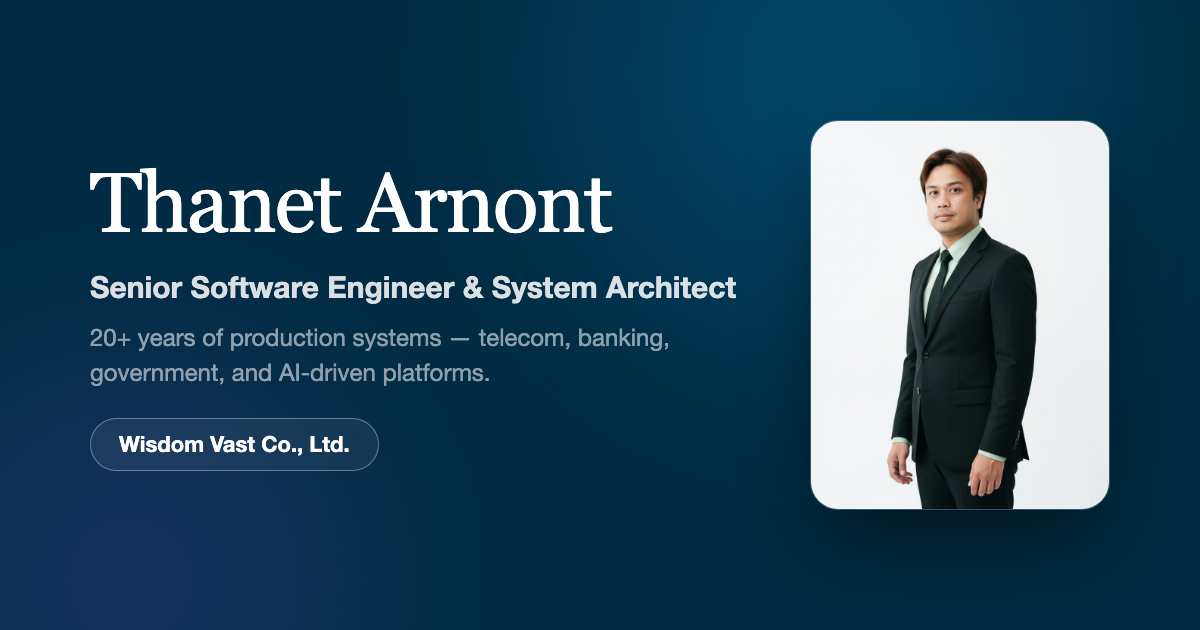
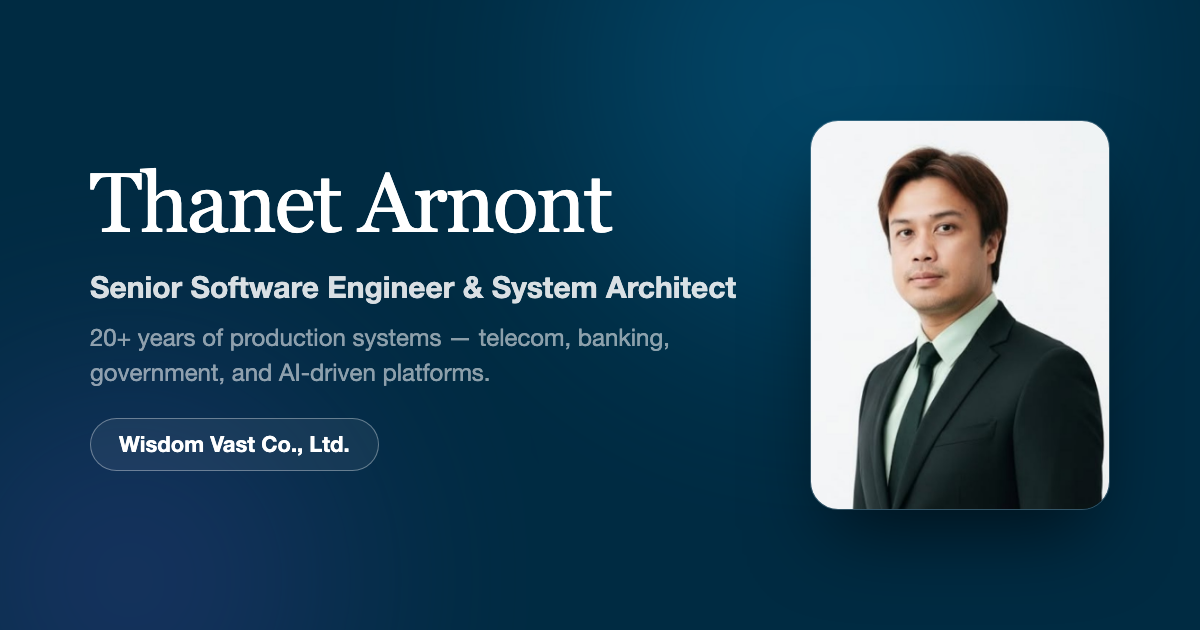
feat: machine-readable resume endpoints, chest-up portrait, drop footer
- resume.json (JSON Resume schema) + llms.txt for AI agents/bots
- Replace PDF download buttons with Resume API link + terminal-style
  endpoint card in Contact
- Crop portrait to chest-up, regenerate og.png with new crop
- Remove footer (copyright + tech credits)

Changed region(s): [[0.7092, 0.2111, 0.925, 0.8143]]

diff --git a/src/App.tsx b/src/App.tsx
@@ -89,7 +89,8 @@ function Hero() {
    About Section
    ======================================== */
 const LINKEDIN_URL = 'https://www.linkedin.com/in/thanet-arnont-90744361/'
-const RESUME_URL = `${import.meta.env.BASE_URL}Thanet-Arnont-Resume.pdf`
+const RESUME_JSON_URL = `${import.meta.env.BASE_URL}resume.json`
+const LLMS_TXT_URL = `${import.meta.env.BASE_URL}llms.txt`
 
 function About() {
   return (
@@ -134,11 +135,12 @@ function About() {
                 LinkedIn →
               </a>
               <a
-                href={RESUME_URL}
-                download
+                href={RESUME_JSON_URL}
+                target="_blank"
+                rel="noopener noreferrer"
                 className="liquid-glass rounded-full px-8 py-3 text-sm text-white hover:scale-[1.03] transition-transform"
               >
-                Download Resume (PDF)
+                Resume API (JSON) →
               </a>
             </div>
           </div>
@@ -605,13 +607,29 @@ function Contact() {
           >
             LinkedIn
           </a>
-          <a
-            href={RESUME_URL}
-            download
-            className="liquid-glass rounded-full px-10 py-4 text-white hover:scale-[1.03] transition-transform"
-          >
-            Resume (PDF)
-          </a>
+        </div>
+
+        {/* Machine-readable endpoints for AI agents & bots */}
+        <div className="mt-12 max-w-xl mx-auto text-left rounded-2xl border border-white/10 bg-black/40 backdrop-blur-sm p-6 font-mono text-xs sm:text-sm">
+          <p className="font-sans text-[11px] uppercase tracking-widest text-white/40 mb-4">
+            For AI agents &amp; bots
+          </p>
+          <p className="text-emerald-300/90 break-all">
+            $ curl https://irq5.github.io/thanet-profile-/resume.json
+          </p>
+          <p className="text-white/40 mt-1"># machine-readable resume · JSON Resume schema</p>
+          <p className="text-emerald-300/90 break-all mt-4">
+            $ curl https://irq5.github.io/thanet-profile-/llms.txt
+          </p>
+          <p className="text-white/40 mt-1"># LLM-friendly guide to this site</p>
+          <div className="mt-5 flex gap-4 font-sans">
+            <a href={RESUME_JSON_URL} target="_blank" rel="noopener noreferrer" className="text-xs text-white/60 hover:text-white">
+              resume.json →
+            </a>
+            <a href={LLMS_TXT_URL} target="_blank" rel="noopener noreferrer" className="text-xs text-white/60 hover:text-white">
+              llms.txt →
+            </a>
+          </div>
         </div>
       </RevealOnScroll>
     </section>
@@ -646,19 +664,6 @@ function RevealOnScroll({ children, className }: { children: React.ReactNode; cl
     <div ref={ref} className={`reveal ${className || ''}`}>
       {children}
     </div>
-  )
-}
-
-/* ========================================
-   Footer
-   ======================================== */
-function Footer() {
-  return (
-    <footer className="relative z-10 border-t border-white/10 py-8 px-6 text-center">
-      <p className="text-xs text-white/30">
-        © {new Date().getFullYear()} Thanet Arnont · Wisdom Vast Co., Ltd. Built with React, TypeScript, Vite.
-      </p>
-    </footer>
   )
 }
 
@@ -700,7 +705,6 @@ export default function App() {
       <Experience />
       <Stack />
       <Contact />
-      <Footer />
     </div>
   )
 }

diff --git a/index.html b/index.html
@@ -18,6 +18,9 @@
     <meta name="twitter:title" content="Thanet Arnont — Senior Software Engineer & System Architect" />
     <meta name="twitter:description" content="20+ years of production experience — telecom, banking, government, and AI-driven platforms. Consulting via Wisdom Vast Co., Ltd." />
     <meta name="twitter:image" content="https://irq5.github.io/thanet-profile-/og.png" />
+
+    <!-- Machine-readable resume for AI agents & bots -->
+    <link rel="alternate" type="application/json" title="Resume (JSON Resume schema)" href="https://irq5.github.io/thanet-profile-/resume.json" />
     <link rel="preconnect" href="https://fonts.googleapis.com">
     <link rel="preconnect" href="https://fonts.gstatic.com" crossorigin>
     <link href="https://fonts.googleapis.com/css2?family=Instrument+Serif:ital@0;1&family=Inter:wght@400;500;600;700&display=swap" rel="stylesheet">
